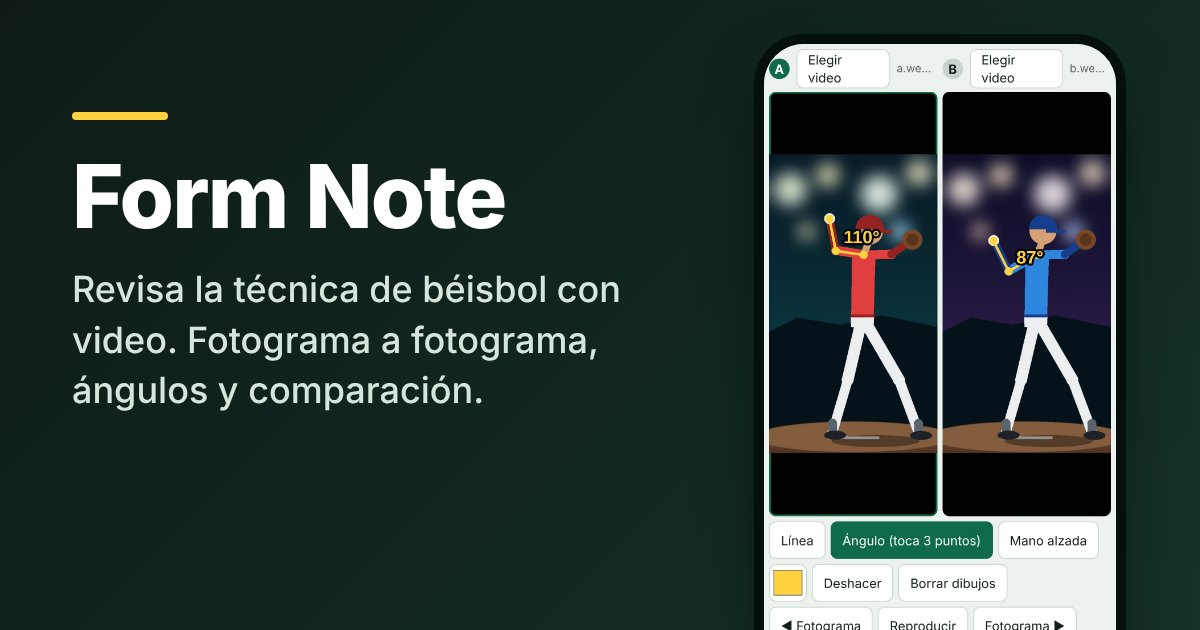
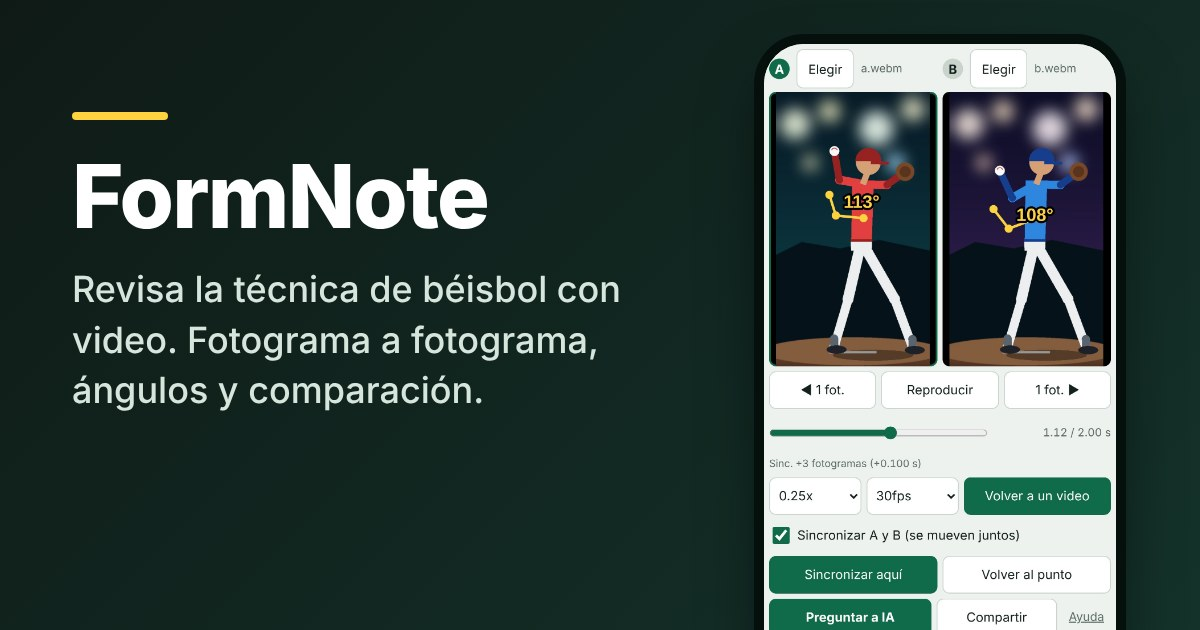
Add files via upload

Changed region(s): [[0.6167, 0.0905, 0.925, 1.0], [0.2158, 0.2413, 0.4317, 0.3619]]

diff --git a/index.html b/index.html
@@ -3,10 +3,10 @@
 <head>
 <meta charset="utf-8">
 <meta name="viewport" content="width=device-width, initial-scale=1, viewport-fit=cover">
-<title>Form Note</title>
+<title>FormNote</title>
 <meta name="description" content="Una herramienta gratuita para revisar la técnica de béisbol en video: fotograma a fotograma, medición de ángulos y comparación de dos videos. Los videos se quedan en tu dispositivo.">
 <meta property="og:type" content="website">
-<meta property="og:title" content="Form Note">
+<meta property="og:title" content="FormNote">
 <meta property="og:description" content="Una herramienta gratuita para revisar la técnica de béisbol en video: fotograma a fotograma, medición de ángulos y comparación de dos videos. Los videos se quedan en tu dispositivo.">
 <meta property="og:url" content="https://yatti3g-byte.github.io/form-note-es/">
 <meta property="og:image" content="https://yatti3g-byte.github.io/form-note-es/og.jpg">
@@ -120,7 +120,7 @@ details.draw:not([open]) .g-tools,details.draw:not([open]) .g-edit{display:none}
 </style>
 </head>
 <body>
-<div id="tutbn" hidden><span><span class="nb">¿Primera vez? </span><span class="nb">Te guiamos para consultar </span><span class="nb">a la IA.</span></span><button class="go" id="tutgo">Ver guía</button><button id="tutno" aria-label="Cerrar">×</button></div>
+<div id="tutbn" hidden><span><span class="nb">¿Primera vez? </span><span class="nb">Te guiamos para comparar dos videos y consultar </span><span class="nb">a la IA.</span></span><button class="go" id="tutgo">Ver guía</button><button id="tutno" aria-label="Cerrar">×</button></div>
 <div class="panes" id="panes"></div>
 
 <div class="ctl">
@@ -152,7 +152,7 @@ details.draw:not([open]) .g-tools,details.draw:not([open]) .g-edit{display:none}
     <button class="btn" id="snap">Compartir</button>
     <a class="lnk" href="help.html" target="_blank" rel="noopener">Ayuda</a>
   </div>
-  <div class="g-tut"><span class="tl">¿Primera vez? </span><button class="lnk" id="tutbtn">IA: 1 video</button><button class="lnk" id="tutbtn2">IA: comparar 2</button></div>
+  <div class="g-tut"><span class="tl">¿Primera vez? </span><button class="lnk" id="tutbtn2">IA: comparar 2</button><button class="lnk" id="tutbtn">IA: 1 video</button></div>
   <details class="draw" id="draw">
     <summary>Herramientas de dibujo (línea / ángulo)</summary>
     <div class="g-tools" id="tools">
@@ -232,7 +232,7 @@ function nrm(p,e){
 const panes=[0,1].map(i=>{
   const el=document.createElement('section');el.className='pane';
   el.innerHTML='<div class="bar"><b>'+'AB'[i]+'</b><label class="btn" aria-label="Elegir video"><span class="lf">Elegir video</span><span class="ls">Elegir</span><input type="file" accept="video/*" multiple hidden></label><span class="name">Ningún video elegido</span><span class="nav" hidden><button type="button" class="btn" data-d="-1" aria-label="Video anterior">◀</button><span class="cnt"></span><button type="button" class="btn" data-d="1" aria-label="Video siguiente">▶</button></span></div>'+
-  '<div class="stage"><video playsinline muted preload="metadata"></video><canvas></canvas><p class="empty">Toca “Elegir video”<br>para abrir un video de tu teléfono</p></div>';
+  '<div class="stage"><video playsinline muted preload="metadata"></video><canvas></canvas><p class="empty">Toca “Elegir video”<br>para abrir un video de tu teléfono'+(i===0?'<br>Elige dos videos a la vez para compararlos lado a lado':'')+'</p></div>';
   $('#panes').append(el);
   const p={i,el,v:el.querySelector('video'),c:el.querySelector('canvas'),shapes:[],cur:null,pend:null,list:[],pos:0};
   p.x=p.c.getContext('2d');
@@ -248,7 +248,13 @@ const panes=[0,1].map(i=>{
     el.querySelector('.empty').hidden=true;
     p.shapes=[];p.pend=null;p.cur=null;p.anchor=null;setActive(i);navUI();ancUI();
   };
-  el.querySelector('input').onchange=e=>{const fs=[...e.target.files];if(!fs.length)return;p.list=fs;open(0);e.target.value=''};
+  p.open=open;
+  el.querySelector('input').onchange=e=>{const fs=[...e.target.files];e.target.value='';if(!fs.length)return;
+    
+    if(fs.length>=2&&(!compare||!panes.some(q=>q.v.getAttribute('src')))){
+      if(!compare)setCompare(true);
+      panes.forEach(q=>q.list=fs);panes[0].open(0);panes[1].open(1);setActive(0);return}
+    p.list=fs;open(0)};
   el.querySelectorAll('.nav button').forEach(bt=>bt.onclick=()=>open(p.pos+(+bt.dataset.d)));
   const bad=()=>{const m=el.querySelector('.empty');m.innerHTML='No se puede reproducir este video<br>Es posible que tu dispositivo no admita este formato';m.hidden=false};
   p.v.onerror=()=>{if(p.v.getAttribute('src'))bad()};
@@ -397,8 +403,10 @@ $('#seek').oninput=e=>{
     ts.forEach((p,j)=>{p.tgt=cs[j].o+(cs[j].n+d+0.5)/f;p.v.currentTime=p.tgt});
   });
 };
-$('#cmp').onclick=()=>{
-  compare=!compare;
+function setCompare(on){
+  compare=on;LK=null;
+  
+  if(compare)$('#link').checked=false;
   panes[1].el.hidden=!compare;
   $('#panes').classList.toggle('two',compare);
   $('#pairrow').hidden=!compare;$('#linkw').hidden=!compare;
@@ -406,8 +414,9 @@ $('#cmp').onclick=()=>{
   $('#cmp').classList.toggle('on',compare);
   if(!compare&&active===1)setActive(0);
   $('#cmp').textContent=compare?'Volver a un video':'Comparar';
-  layout();
-};
+  layout();playLabel();
+}
+$('#cmp').onclick=()=>setCompare(!compare);
 panes[1].el.hidden=true;
 $('#link').addEventListener('change',()=>{LK=null;playLabel()});$('#cmp').addEventListener('click',()=>{LK=null;playLabel()});
 document.querySelectorAll('[data-tool]').forEach(b=>b.onclick=()=>{
@@ -563,16 +572,16 @@ function aiPrompt(){
   const kind=$('#aikind').value,ctx=$('#aictx').value.trim()||'(sin rellenar)',bat=/Bateo/.test(kind);
   const rel={'':'No se ha indicado la relación entre A y B (cuál soy yo y cuál es el modelo). Compara los dos.','self':'A y B son videos míos grabados en distintos días o en diferentes condiciones. Compara qué ha mejorado, qué sigue igual y qué ha empeorado.','AM':'A es mi técnica y B es el modelo con el que quiero compararme.','MA':'A es el modelo y B es mi técnica.'}[$('#aipair').value]||'';
   const look=aiPair
-    ?'- La imagen muestra 4 momentos en orden, numerados del 1 al 4. Un número mayor es más tarde en el tiempo.\n- En cada momento, la mitad izquierda es A y la derecha es B, cada una con una marca amarilla “A” o “B” arriba a la derecha. Refiérete a ellos como “1-A”, “1-B”, etc.\n- El mismo número es el mismo momento para A y B (ambos videos se movieron el mismo número de fotogramas; si se usa el punto de sincronía, las posiciones respecto a ese punto coinciden). El texto de abajo a la izquierda es el número de fotogramas desde el punto de sincronía (o el tiempo del video).'
+    ?'- La imagen muestra 4 momentos en orden, numerados del 1 al 4. Un número mayor es más tarde en el tiempo.\n- En cada momento, la mitad izquierda es A y la derecha es B, cada una con una marca amarilla “A” o “B” arriba a la derecha. Refiérete a ellos como “1-A”, “1-B”, etc.\n- El mismo número es el mismo momento para A y B (ambos videos se movieron el mismo número de fotogramas; si se usa el punto de sincronía, alineé el mismo momento en los dos videos y lo puse como 0, y el texto de abajo a la izquierda es el número de fotogramas desde ese punto; si no se usa, el texto es el tiempo del video).\n- Aunque el número sea el mismo, A y B pueden no estar en la misma fase del movimiento. Separa las diferencias de postura de las diferencias de velocidad y de momento.'
     :'- La imagen muestra 4 momentos consecutivos del mismo video, en orden, numerados del 1 al 4. Un número mayor es más tarde en el tiempo.\n- El texto de abajo a la izquierda de cada momento es el tiempo del video. Refiérete a los momentos por su número, como “momento 2” o “momentos 3 a 4”.\n- El momento marcado con ● es el que detuve y elegí.';
   const cmp=aiPair
-    ?'1. Comparación: para cada número (1, 2, 3, 4), compara A y B. Para cada número escribe qué es distinto (por ejemplo “diferencia entre 1-A y 1-B”) y qué podría significar para el swing o el lanzamiento. Al final resume qué cambió de A a B y qué parece haber mejorado o empeorado en general. No mires solo un lado.'
+    ?'1. Comparación: para cada número (1, 2, 3, 4), compara A y B. Para cada número escribe qué es distinto (por ejemplo “diferencia entre 1-A y 1-B”) y qué podría significar para el swing o el lanzamiento. Si no puedes saber cuál es mejor, vale decir “sin diferencia clara”. Al final resume qué cambió de A a B y qué parece haber mejorado o empeorado en general. No mires solo un lado.'
     :'1. Cambio: describe en orden cómo cambian el timing y la postura a lo largo de los momentos 1, 2, 3 y 4.';
   const pts=bat
     ?'inicio del movimiento y transferencia de peso a la pierna de atrás, momento en que aterriza el pie delantero, posición de la carga (postura y manos), hombro delantero y apertura del cuerpo, posición de codos y manos, rotación de cadera, posición de la cabeza, extensión de los brazos cerca del contacto'
     :'timing de la pierna de apoyo y del paso, recogida y apertura del lado del guante, posición de codo y hombro, inclinación del tronco y apertura del cuerpo, punto de suelta, estabilidad de la cabeza, transferencia de peso';
   const hint=bat&&/tarde|atras|encima|timing/i.test(ctx)?'\n- El problema tiene que ver con el timing, así que presta especial atención al inicio del movimiento, la transferencia de peso a la pierna de atrás, el aterrizaje del pie delantero y el momento en que empieza el swing.':'';
-  return 'Analiza la mecánica del jugador a partir de las imágenes ('+kind+').\n\n[Contexto]\n'+ctx+'\n'+(aiPair?rel+'\n':'')+'\n[Cómo leer la imagen]\n'+look+'\n\n[Puntos a observar (candidatos)]\n'+pts+'\n- Son solo candidatos. Juzga únicamente por lo que se ve realmente en las imágenes y da prioridad a lo que parezca relacionado con mi problema.'+hint+'\n- Si algo está oculto, es muy pequeño o no se puede juzgar por el ángulo, escribe “no se puede determinar” en lugar de suponer.\n\n[Petición]\n0. Primero, escribe una línea por momento con lo que se ve (dirección del cuerpo, posición de los pies, posición de brazos, manos y '+(bat?'bate':'pelota y guante')+').\n'+cmp+'\n2. Puntos buenos (2 a 3)\n3. Puntos a mejorar (2 a 3). Para cada uno, indica la evidencia: en qué momento y en qué parte del cuerpo (número y parte del cuerpo).\n4. Ejercicios de mejora (3 que se puedan hacer en casa o en el campo, con cómo hacerlos, un número aproximado de repeticiones y precauciones)\n5. Consejos para la próxima vez que grabe (posición de la cámara, ángulo y momento)\n\n[Ten en cuenta]\n- Es una valoración solo con imágenes fijas, así que no seas categórico; usa expresiones como “por lo que se ve” y “podría ser que…”\n- Si en [Contexto] se indica edad o curso, aconseja según la etapa de crecimiento y la capacidad física de esa edad y prioriza la prevención de lesiones (si no se indica, no supongas la edad). No impongas estándares profesionales\n- Si tengo dolor o molestias, dime que no fuerce y que consulte a un médico o entrenador\n- Da una breve explicación de los términos técnicos';
+  return 'Analiza la mecánica del jugador a partir de las imágenes ('+kind+').\n\n[Contexto]\n'+ctx+'\n'+(aiPair?rel+'\n':'')+'\n[Cómo leer la imagen]\n'+look+'\n\n[Puntos a observar (candidatos)]\n'+pts+'\n- Son solo candidatos. Juzga únicamente por lo que se ve realmente en las imágenes y da prioridad a lo que parezca relacionado con mi problema. El traspaso de peso, la velocidad de giro y el momento exacto del apoyo del pie son difíciles de juzgar con imágenes fijas, así que indica ese límite.'+hint+'\n- Si algo está oculto, es muy pequeño o no se puede juzgar por el ángulo, escribe “no se puede determinar” en lugar de suponer.\n\n[Petición]\n0. Primero, escribe una línea por momento con lo que se ve (dirección del cuerpo, posición de los pies, posición de brazos, manos y '+(bat?'bate':'pelota y guante')+').\n'+cmp+'\n2. Puntos buenos (2 a 3)\n3. Puntos a mejorar (2 a 3). Para cada uno, indica la evidencia: en qué momento y en qué parte del cuerpo (número y parte del cuerpo).\n4. Ejercicios de mejora (hasta 3 que se puedan hacer en casa o en el campo, con cómo hacerlos, un número aproximado de repeticiones y precauciones; si la causa no está clara, no fuerces ejercicios y dime qué comprobar primero)\n5. Consejos para la próxima vez que grabe (posición de la cámara, ángulo, altura, velocidad de grabación (fps) y momento)\n\n[Ten en cuenta]\n- Es una valoración solo con imágenes fijas, así que no seas categórico; usa expresiones como “por lo que se ve” y “podría ser que…”\n- Si en [Contexto] se indica edad o curso, aconseja según la etapa de crecimiento y la capacidad física de esa edad y prioriza la prevención de lesiones (si no se indica, no supongas la edad). No impongas estándares profesionales\n- Si tengo dolor o molestias, dime que no fuerce y que consulte a un médico o entrenador\n- Separa con claridad lo que observas, cómo lo interpretas y lo que propones\n- Si en [Contexto] hay una preocupación, usa como criterio principal si algo ayuda con ella. Las imágenes fijas no muestran resultados como la calidad del contacto, la calidad del batazo o el control\n- No fuerces puntos de mejora; aconséjame mantener los buenos movimientos\n- Si algo no se puede saber solo con las imágenes, indica qué falta\n- Da una breve explicación de los términos técnicos';
 }
 let aiEdited=false;
 function aiFill(){
@@ -597,7 +606,7 @@ $('#aisend').onclick=async()=>{
   m.textContent=(await cp)?'La pregunta está copiada. Mantén pulsada la imagen de arriba para guardarla y pega la imagen y la pregunta en tu app de IA.':'Mantén pulsada la pregunta para copiarla, mantén pulsada la imagen de arriba para guardarla y pega ambas en tu app de IA.';
 };
 const APP_HINT='Escanea el código QR para abrir la app';
-const APP_NAME='Form Note';
+const APP_NAME='FormNote';
 
 
 function qrMatrix(text){
@@ -766,15 +775,12 @@ const TUTS={basic:[
  {t:'Escribe edad, lado y problema',m:'Ejemplos: “10 años, diestro, llego tarde al swing” o “40 años, liga recreativa, diestro, me atrapan por dentro”. Puedes enviar sin escribir nada, pero la respuesta de la IA será más concreta si lo haces.',sel:()=>'#aictx'},
  {t:'Enviar a una app de IA',m:'Este botón copia la pregunta y abre la pantalla de compartir. Elige tu app de IA, como ChatGPT o Claude, y envía la imagen y la pregunta. Si no aparece en la lista, mantén pulsada la imagen para guardarla y pega la pregunta.',sel:()=>'#aisend',last:true}
 ],cmp:[
- {t:'Usar dos videos',m:'Se muestran dos videos lado a lado para compararlos, por ejemplo tú y un modelo, o tú el mes pasado y hoy.',sel:()=>'#cmp',done:()=>compare,act:()=>$('#cmp').click(),actlabel:'Usar dos videos'},
- {t:'Elige el video A',m:'Elige para A el video que quieres revisar. Ejemplo: tu swing de hoy. No está decidido cuál eres tú; después puedes indicar la relación entre A y B.',sel:()=>'#panes .pane:nth-of-type(1) .bar label',done:()=>panes[0].v.videoWidth>0,need:true},
- {t:'Elige el video B',m:'Elige para B el video con el que comparar. Ejemplo: tú el mes pasado, o un video de alguien que quieres tomar como modelo. Es más fácil comparar si ambos muestran el mismo movimiento (batear o lanzar) desde la misma dirección (de frente, de lado, etc.).',sel:()=>'#panes .pane:nth-of-type(2) .bar label',done:()=>panes.every(p=>p.v.videoWidth>0),need:true},
- {t:'Desactiva “Sincronizar A y B”',m:'Al principio A y B se mueven juntos. Para alinearlos por separado, primero desmarca la casilla.',sel:()=>'#linkw',done:()=>!$('#link').checked,act:()=>{if($('#link').checked)$('#link').click()},actlabel:'Desactivar'},
- {t:'Alinea A y B en el mismo momento',m:'Toca la pantalla de A para seleccionarla y usa ◀ ▶ de abajo o el control deslizante para llegar al momento que quieres (por ejemplo, el instante del contacto). Luego toca la pantalla de B para seleccionarla y alinea B en el mismo momento del movimiento.',sel:()=>['#panes','.g-play','.g-seek']},
+ {t:'Elige dos videos para comparar',m:'Toca “Elegir video” y selecciona a la vez los dos videos que quieres comparar. El primero será A y el segundo B, y la pantalla cambia sola a dos paneles. Por ejemplo, tú y un modelo, o tú el mes pasado y hoy. Es más fácil comparar si ambos muestran el mismo movimiento (batear o lanzar) desde la misma dirección (de frente, de lado, etc.).',sel:()=>'#panes .pane:nth-of-type(1) .bar label',done:()=>compare&&panes.every(p=>p.v.videoWidth>0),need:true,hint:'Elige dos videos para pasar al siguiente paso'},
+ {t:'Alinea A y B en el mismo momento',m:'Al principio, A y B se mueven por separado. Toca la pantalla de A para seleccionarla y usa ◀ ▶ de abajo o el control deslizante para llegar al momento que quieres (por ejemplo, el instante del contacto). Luego toca la pantalla de B para seleccionarla y alinea B en el mismo momento del movimiento.',sel:()=>['#panes','.g-play','.g-seek']},
  {t:'Define el punto de sincronía',m:'Cuando ambos muestren el mismo momento, pulsa “Sincronizar aquí”. Ese será el “punto alineado” y la sincronización se activa automáticamente.',sel:()=>'#anchor',done:()=>panes.every(p=>p.anchor!=null),act:()=>$('#anchor').click(),actlabel:'Definir punto'},
  {t:'Muévelos juntos',m:'Ahora el avance por fotogramas y el control deslizante mueven ambos videos a la vez. La diferencia se muestra como “Sinc. ±N fotogramas”. “Volver al punto” regresa al punto alineado.',sel:()=>['.g-play','.g-seek']},
  {t:'Detente en el momento y pulsa “Preguntar a IA”',m:'Detente en el momento sobre el que quieres preguntar y pulsa. Se crea una imagen con A y B lado a lado, con 4 momentos alrededor.',sel:()=>'#aimain',done:()=>!$('#snapbox').hidden&&!$('#aipanel').hidden,act:()=>$('#aimain').click(),actlabel:'Probar'},
- {t:'Elige la relación entre A y B',m:'Elige si A y B son “yo y un modelo” o “ambos yo (antes y después)”. A no siempre está a la izquierda ni B a la derecha, así que esto se refleja en la pregunta.',sel:()=>'#aipair'},
+ {t:'Elige la relación entre A y B y escribe tu problema',m:'Elige si A y B son “yo y un modelo” o “ambos yo (antes y después)”. A no siempre está a la izquierda ni B a la derecha, así que esto se refleja en la pregunta. Escribe también tu edad, el lado con el que bateas o lanzas y tu problema. Ejemplo: “10 años, derecho, llego tarde al swing”. Puedes enviar sin escribir, pero la respuesta de la IA será más concreta si lo haces.',sel:()=>['#aipair','#aictx']},
  {t:'Enviar a una app de IA',m:'Este botón copia la pregunta y abre la pantalla de compartir. Elige tu app de IA y envía la imagen y la pregunta.',sel:()=>'#aisend',last:true}
 ]};
 let TUT=TUTS.basic;
@@ -829,7 +835,7 @@ function tutEnd(){
 }
 $('#tutbtn').onclick=()=>tutStart('basic');
 $('#tutbtn2').onclick=()=>tutStart('cmp');
-$('#tutgo').onclick=()=>tutStart('basic');
+$('#tutgo').onclick=()=>tutStart('cmp');
 $('#tutno').onclick=()=>{tutLS();$('#tutbn').hidden=true};
 addEventListener('resize',tutPlace);
 try{if(!localStorage.getItem('fn_tut'))$('#tutbn').hidden=false}catch(e){$('#tutbn').hidden=false}

diff --git a/help.html b/help.html
@@ -3,7 +3,7 @@
 <head>
 <meta charset="utf-8">
 <meta name="viewport" content="width=device-width, initial-scale=1">
-<title>Cómo usar Form Note</title>
+<title>Cómo usar FormNote</title>
 <style>
 :root{--bg:#eef2ee;--panel:#fff;--line:#c9d4cc;--ink:#14201c;--mute:#4f6158;--acc:#0f6b4a;--accInk:#fff;color-scheme:light}
 @media (prefers-color-scheme:dark){:root:not([data-theme="light"]){--bg:#0f1a16;--panel:#18251f;--line:#2b3d35;--ink:#e6efe9;--mute:#9db0a5;--acc:#ffd23f;--accInk:#14201c;color-scheme:dark}}
@@ -54,12 +54,12 @@ footer{margin-top:2.4rem;color:var(--mute);font-size:.92rem}
 <body>
 <main>
 <h1>Compara dos videos en el momento del contacto</h1>
-<p class="lead">Form Note es una herramienta gratuita para revisar la técnica de béisbol en video. Alinea dos clips en el mismo momento, por ejemplo tú y un modelo, o la semana pasada y esta, y <span class="nb">avanza fotograma a fotograma.</span> Los videos se procesan solo en tu dispositivo.</p>
+<p class="lead">FormNote es una herramienta gratuita para revisar la técnica de béisbol en video. Alinea dos clips en el mismo momento, por ejemplo tú y un modelo, o la semana pasada y esta, y <span class="nb">avanza fotograma a fotograma.</span> Los videos se procesan solo en tu dispositivo.</p>
 <a class="btn" href="./">Abrir la app</a>
 
-<img class="shot" src="screenshot.jpg" width="1236" height="2745" alt="Form Note con dos clips de lanzamiento lado a lado, con el ángulo del codo medido en cada uno (110 y 89 grados), tres fotogramas después del punto de sincronía y mostrando “Sinc. +3 fotogramas”.">
+<img class="shot" src="screenshot.jpg" width="1236" height="2745" alt="FormNote con dos clips de lanzamiento lado a lado, con el ángulo del codo medido en cada uno (110 y 89 grados), tres fotogramas después del punto de sincronía y mostrando “Sinc. +3 fotogramas”.">
 <p class="cap">Dos clips alineados en el mismo punto de sincronía y avanzados 3 fotogramas. Los clips de muestra son ilustraciones, no jugadores reales.</p>
-<h2>En qué destaca Form Note</h2>
+<h2>En qué destaca FormNote</h2>
 <div class="feat"><div class="card"><span class="no">1</span><h3>Alinea ambos clips <wbr>en el momento clave</h3><p>Detén A y B en el momento del contacto o de la suelta y pulsa “Sincronizar aquí”. Ese momento pasa a ser cero y puedes avanzar o retroceder en ambos clips a la vez. Aunque los clips empiecen en momentos distintos, comparas el mismo instante.</p></div><div class="card"><span class="no">2</span><h3>Un toque, <wbr>exactamente un fotograma</h3><p>Está hecho para que un toque avance exactamente un fotograma en clips de 30, 120 o 240 fps. Los swings y lanzamientos rápidos se siguen sin saltos. Los dibujos quedan fijos en pantalla, así que puedes comprobar el movimiento del cuerpo frente a una línea de referencia.</p></div><div class="card"><span class="no">3</span><h3>Comparte o consulta a una IA <wbr>sobre el resultado</h3><p>Pulsa “Preguntar a IA” para obtener 4 imágenes alrededor del momento y una pregunta lista (puntos buenos, problemas, ejercicios) para enviar a la app de IA que prefieras. “Compartir” envía imágenes a apps de chat.</p></div></div>
 <ul class="chips"><li>Los videos no salen de tu dispositivo</li><li>Sin registro ni costes</li><li>Solo abrir en el navegador</li></ul>
 <h2>Comparar dos videos (la mejor forma de usarlo)</h2>
@@ -106,16 +106,16 @@ footer{margin-top:2.4rem;color:var(--mute);font-size:.92rem}
 
 
 <h2>Apoya esta herramienta gratuita</h2>
-<p>Form Note es de uso gratuito. Si te ha sido útil, puedes apoyar su desarrollo con un café. Es opcional: todas las funciones siguen siendo gratuitas.</p>
+<p>FormNote es de uso gratuito. Si te ha sido útil, puedes apoyar su desarrollo con un café. Es opcional: todas las funciones siguen siendo gratuitas.</p>
 <a class="btn" href="https://buymeacoffee.com/formnote" target="_blank" rel="noopener">☕ Apoya esta herramienta gratuita</a>
 
 <h2>Preguntas</h2>
-<details><summary>Soy nuevo. ¿Cómo lo uso?</summary><p>Debajo de “¿Primera vez?”, en la parte de abajo de la app, hay dos guías. “IA: 1 video” va desde elegir un video hasta enviarlo a una app de IA. “IA: comparar 2” coloca dos videos lado a lado, alinea el punto de sincronía y sigue hasta enviarlo a una app de IA. Ambas señalan la pantalla paso a paso. La primera vez que abres la app también aparece un aviso sobre la guía.</p></details><details><summary>¿Se suben mis videos a algún sitio?</summary><p>No. Los videos se abren y se procesan en tu dispositivo, dentro del navegador. Form Note no los envía a ningún servidor.</p></details><details><summary>¿Se puede abrir la app desde la imagen guardada?</summary><p>Sí. Abre la imagen guardada en el mismo teléfono y mantén presionado el código QR (en Google Fotos o Google Lens, toca el enlace detectado), o escanéalo con la cámara de otro teléfono. El enlace escrito junto al código QR forma parte de la imagen, así que no se puede tocar. El código QR funciona en una imagen guardada o en una captura de pantalla, siempre que la imagen siga siendo lo bastante grande para leerse. Si usas <b>Compartir</b>, el enlace se envía también como texto y muchas apps de mensajería lo hacen tocable.</p></details><details><summary>No veo el botón Compartir.</summary><p>El botón Compartir solo aparece en los navegadores que pueden compartir imágenes. Si no lo ves, mantén presionada la imagen para guardarla o haz una captura de pantalla, y envía esa imagen.</p></details><details><summary>¿Qué incluye la imagen guardada?</summary><p>La imagen de <b>Compartir</b> es el fotograma que estabas viendo, con tus dibujos y ángulos encima. La imagen de <b>Preguntar a IA</b> no lleva dibujos. Abajo se añade una barra con el nombre de la app, su enlace y un código QR.</p></details><details><summary>El video tarda mucho en cargar.</summary><p>Los archivos grandes, como clips largos en 4K, pueden tardar en abrirse. Prueba a grabar en 1080p o recorta el clip a la parte que necesitas.</p></details><details><summary>El video no se reproduce.</summary><p>Algunos videos del teléfono usan un formato que no todos los dispositivos pueden reproducir, sobre todo los de HEVC (H.265) del iPhone. En iPhone, elige <b>Ajustes → Cámara → Formatos → Más compatible</b> y vuelve a grabar, o convierte el video a MP4 con H.264. Luego elígelo de nuevo.</p></details><details><summary>¿Los dibujos siguen al video?</summary><p>No. Los dibujos quedan fijos en la zona de imagen, no en cada fotograma. Se mantienen en el mismo lugar al avanzar por el video, así puedes comparar el movimiento del cuerpo con una línea fija. Cada panel guarda sus propios dibujos, y se borran al elegir otro video.</p></details><details><summary>Fotograma no avanza de uno en uno.</summary><p>Revisa el ajuste de fps. Debe coincidir con los fotogramas por segundo con los que grabaste. Si es mayor que el real del video, cada toque avanza menos de un fotograma.</p></details><details><summary>Mi teléfono siempre abre la misma carpeta al elegir un video.</summary><p>El selector de archivos lo controla tu teléfono, no la app. Prueba la vista <b>Recientes</b> o <b>Videos</b> del selector para encontrar tus clips sin recorrer carpetas.</p></details><details><summary>¿Se quedan los dibujos en el video?</summary><p>Se quedan mientras la página está abierta. Si recargas la página o eliges otro video, se borran. Usa <b>Compartir</b> para conservar una imagen.</p></details>
+<details><summary>Soy nuevo. ¿Cómo lo uso?</summary><p>Debajo de “¿Primera vez?”, en la parte de abajo de la app, hay dos guías. “IA: 1 video” va desde elegir un video hasta enviarlo a una app de IA. “IA: comparar 2” coloca dos videos lado a lado, alinea el punto de sincronía y sigue hasta enviarlo a una app de IA. Ambas señalan la pantalla paso a paso. La primera vez que abres la app también aparece un aviso sobre la guía.</p></details><details><summary>¿Se suben mis videos a algún sitio?</summary><p>No. Los videos se abren y se procesan en tu dispositivo, dentro del navegador. FormNote no los envía a ningún servidor.</p></details><details><summary>¿Se puede abrir la app desde la imagen guardada?</summary><p>Sí. Abre la imagen guardada en el mismo teléfono y mantén presionado el código QR (en Google Fotos o Google Lens, toca el enlace detectado), o escanéalo con la cámara de otro teléfono. El enlace escrito junto al código QR forma parte de la imagen, así que no se puede tocar. El código QR funciona en una imagen guardada o en una captura de pantalla, siempre que la imagen siga siendo lo bastante grande para leerse. Si usas <b>Compartir</b>, el enlace se envía también como texto y muchas apps de mensajería lo hacen tocable.</p></details><details><summary>No veo el botón Compartir.</summary><p>El botón Compartir solo aparece en los navegadores que pueden compartir imágenes. Si no lo ves, mantén presionada la imagen para guardarla o haz una captura de pantalla, y envía esa imagen.</p></details><details><summary>¿Qué incluye la imagen guardada?</summary><p>La imagen de <b>Compartir</b> es el fotograma que estabas viendo, con tus dibujos y ángulos encima. La imagen de <b>Preguntar a IA</b> no lleva dibujos. Abajo se añade una barra con el nombre de la app, su enlace y un código QR.</p></details><details><summary>El video tarda mucho en cargar.</summary><p>Los archivos grandes, como clips largos en 4K, pueden tardar en abrirse. Prueba a grabar en 1080p o recorta el clip a la parte que necesitas.</p></details><details><summary>El video no se reproduce.</summary><p>Algunos videos del teléfono usan un formato que no todos los dispositivos pueden reproducir, sobre todo los de HEVC (H.265) del iPhone. En iPhone, elige <b>Ajustes → Cámara → Formatos → Más compatible</b> y vuelve a grabar, o convierte el video a MP4 con H.264. Luego elígelo de nuevo.</p></details><details><summary>¿Los dibujos siguen al video?</summary><p>No. Los dibujos quedan fijos en la zona de imagen, no en cada fotograma. Se mantienen en el mismo lugar al avanzar por el video, así puedes comparar el movimiento del cuerpo con una línea fija. Cada panel guarda sus propios dibujos, y se borran al elegir otro video.</p></details><details><summary>Fotograma no avanza de uno en uno.</summary><p>Revisa el ajuste de fps. Debe coincidir con los fotogramas por segundo con los que grabaste. Si es mayor que el real del video, cada toque avanza menos de un fotograma.</p></details><details><summary>Mi teléfono siempre abre la misma carpeta al elegir un video.</summary><p>El selector de archivos lo controla tu teléfono, no la app. Prueba la vista <b>Recientes</b> o <b>Videos</b> del selector para encontrar tus clips sin recorrer carpetas.</p></details><details><summary>¿Se quedan los dibujos en el video?</summary><p>Se quedan mientras la página está abierta. Si recargas la página o eliges otro video, se borran. Usa <b>Compartir</b> para conservar una imagen.</p></details>
 
 <div class="note"><b>Una nota para entrenadores y padres.</b> Usa los números para comparar a un jugador con sus propios clips anteriores, no con otros jugadores. Sigue las pautas de tu liga sobre número de lanzamientos y descanso.</div>
 
 <p><a href="./">Volver a la app</a></p>
-<footer>Form Note es una herramienta gratuita. Las imágenes de ejemplo son ilustraciones.</footer>
+<footer>FormNote es una herramienta gratuita. Las imágenes de ejemplo son ilustraciones.</footer>
 </main>
 </body>
 </html>
